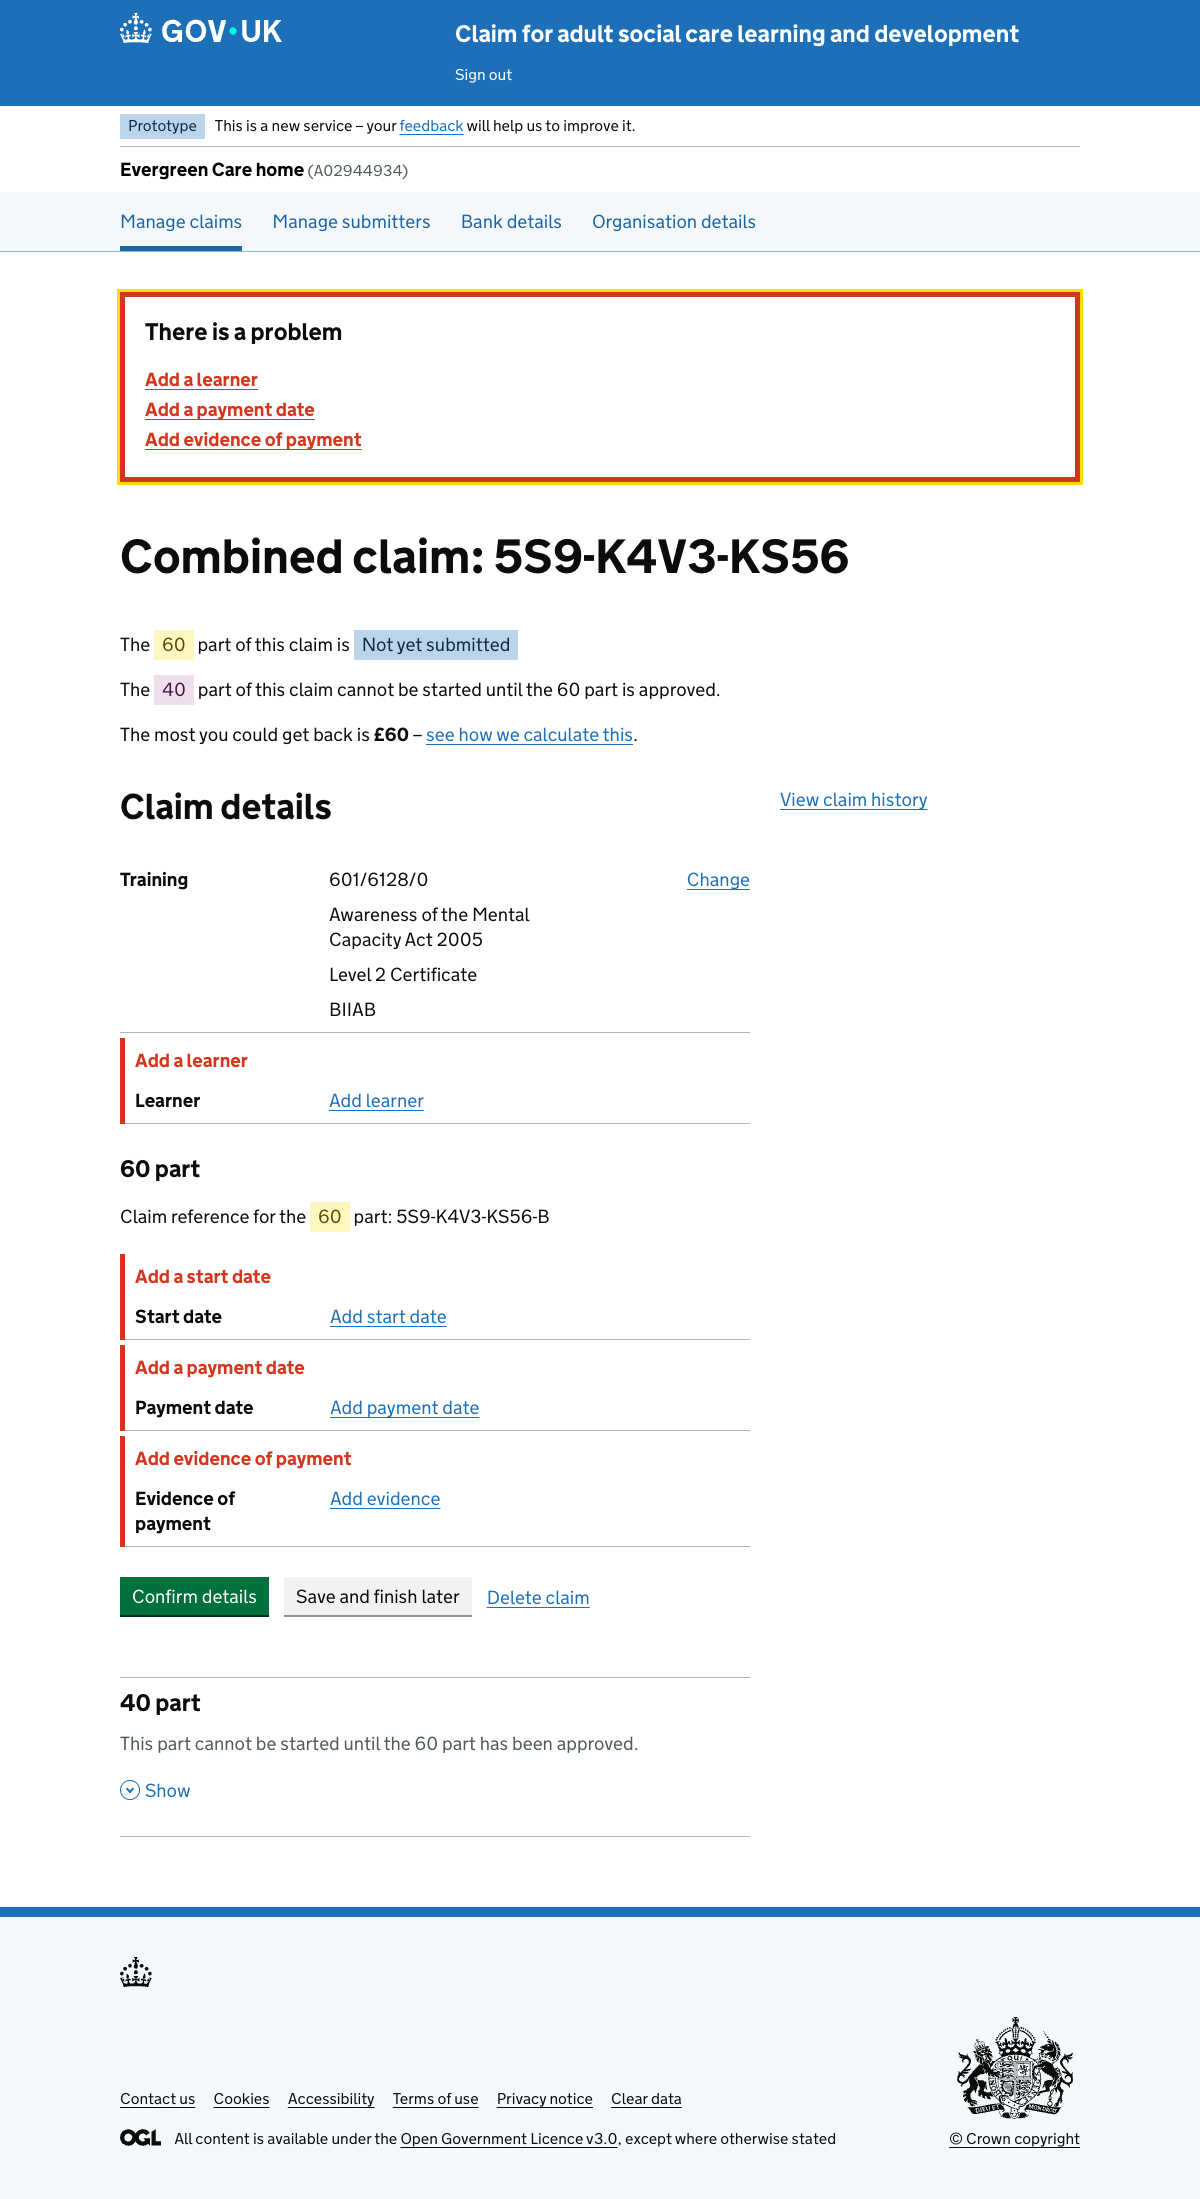
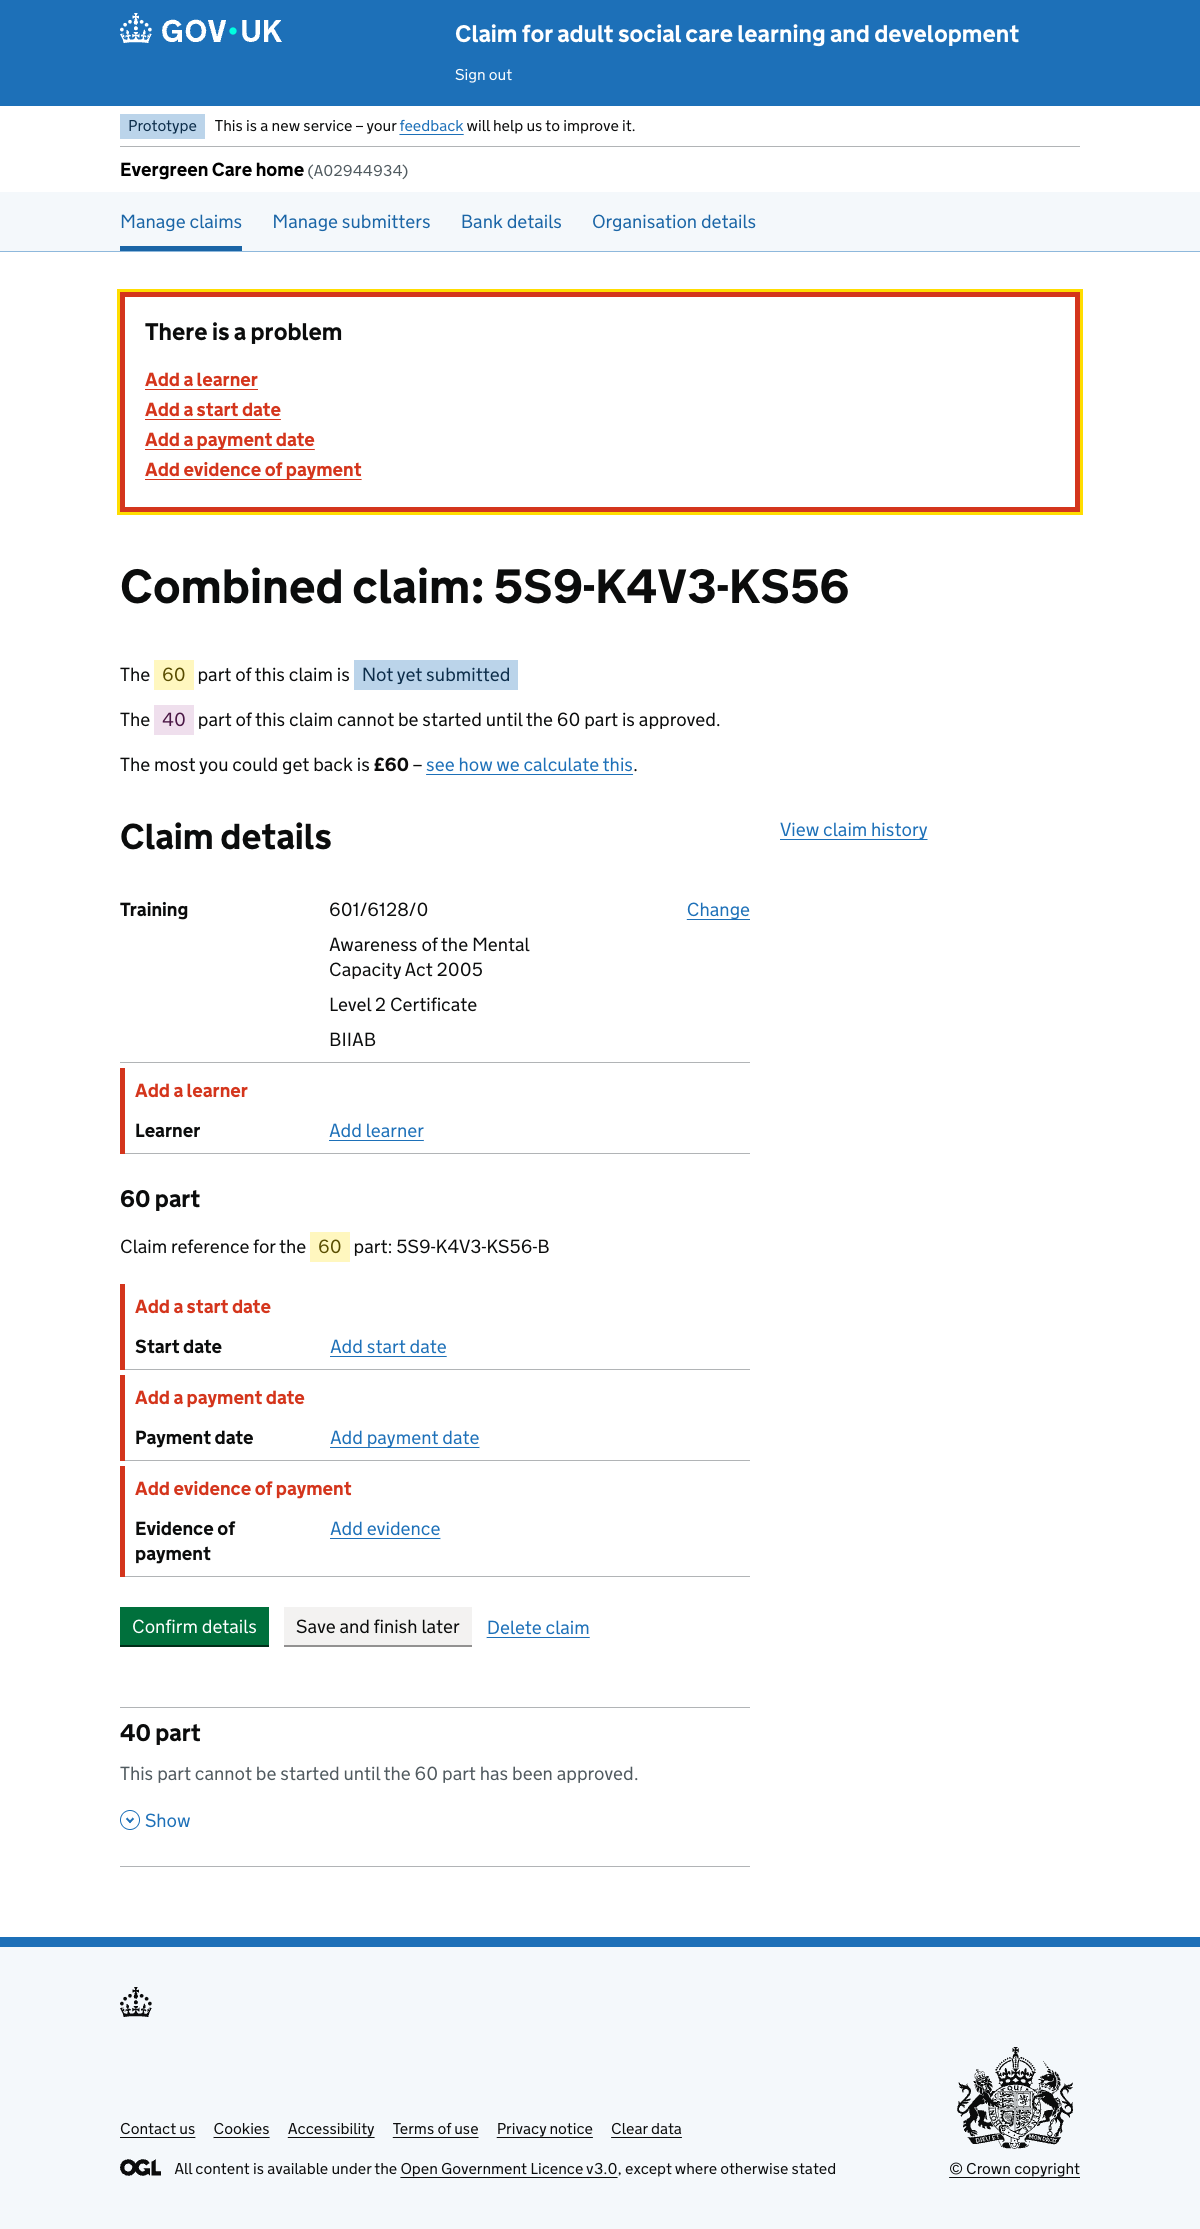
udated screenshots  and routes for error handling

diff --git a/app/views/claims/v22/_backstop/backstop-routes.js b/app/views/claims/v22/_backstop/backstop-routes.js
@@ -1184,16 +1184,28 @@ router.get('/claim', function (req, res) {
             change: true,
             claimValid: false
             }
+        if (type == "100") {
+            req.session.data.submitError.startDate = null
+        }
     } else if (error == "missing2") {
         req.session.data.submitError = {
             learner: "valid",
             startDate: "valid",
-            paymentDate: "missing",
+            paymentDate: "valid",
             evidenceOfPayment: "valid",
             evidenceOfCompletion: "missing",
             completionDate: "missing",
             change: true,
             claimValid: false
+            }
+        for (const claim of req.session.data.claims) {
+                if (claim.claimID == id) {
+                    const submission = getMostRelevantSubmission(claim)
+                    for (const learner of submission.learners) {
+                        learner.completionDate = null
+                        learner.evidenceOfCompletion = null
+                    }
+                }
             }
     } else if (error == "missing3" && paymentPlan == "false") {
         req.session.data.submitError = {
@@ -1216,26 +1228,6 @@ router.get('/claim', function (req, res) {
             completionDate: "missing",
             change: true,
             claimValid: false
-            }
-    } else if (error == "date1") {
-        req.session.data.submitError = {
-            learner: "valid",
-            startDate: "invalid",
-            paymentDate: "valid",
-            evidenceOfPayment: "valid",
-            evidenceOfCompletion: "valid",
-            completionDate: "invalid",
-            change: true,
-            claimValid: false
-            }
-
-            for (const claim of req.session.data.claims) {
-                if (claim.claimID == "GE2-UA5D-4K6C-A") {
-                    const submission = getMostRelevantSubmission(claim)
-                    submission.costDate = "2025-03-31T23:55:44.062Z"
-                    submission.completionDate = "2025-02-25T23:55:44.062Z"
-                    submission.evidenceOfCompletion = "certificate1.pdf"
-                }
             }
     } else if (error == "date2") {
         req.session.data.submitError = {
@@ -1297,6 +1289,31 @@ router.get('/claim', function (req, res) {
                 }
             }
     } else if (error == "noedits") {
+        switch (type) {
+            case "100":
+                if (learnerCount == "multi") {
+                    id = "HZE-PYRI-EN4T-A";
+                } else if (learnerCount == "single") {
+                    id = "RKS-RP75-JB2P-A";
+                    for (const claim of req.session.data.claims) {
+                        if (claim.claimID == id) {
+                            const submission = getMostRelevantSubmission(claim)
+                            submission.learners[0].learnerID = "WS 54 2F 01 E"
+                            submission.learners[0].learnerChanged = null
+                        }
+                    }
+                }
+                break;
+
+            case "60":
+                id = "VIM-5JSV-GQUS-B";
+                break;
+
+            case "40":
+                id = "WVN-NHAU-TTES-C";
+                break;
+        }
+
         req.session.data.submitError = {
             learner: "valid",
             startDate: "valid",
@@ -1306,15 +1323,6 @@ router.get('/claim', function (req, res) {
             completionDate: "valid",
             change: false,
             claimValid: false
-            }
-
-            if (type =="60") {
-                for (const claim of req.session.data.claims) {
-                if (claim.claimID == "VJH-8Y37-EZNM-B") {
-                    const submission = getDraftSubmission(claim)
-                    submission.evidenceOfPayment = ["invoice1.pdf", "receipt1.pdf"]
-                }
-            }
             }
         }
 

diff --git a/app/views/claims/v22/_filters/filters.js b/app/views/claims/v22/_filters/filters.js
@@ -78,15 +78,11 @@ addFilter('errorSummary', function (claim, submitError) {
     } else {
         submission = getMostRelevantSubmission(claim)
     }
-
-    if (submitError.description == "missing") {
-        errorSummaryStr = errorSummaryStr.concat('<li><a href="#description-error">Add a description</a></li>')
-    }
-    if (submitError.claimAmount == "missing") {
-        errorSummaryStr = errorSummaryStr.concat('<li><a href="#claim-amount-error">Add a cost</a></li>')
-    }
     if (submitError.learner == "missing") {
         errorSummaryStr = errorSummaryStr.concat('<li><a href="#learner-error">Add a learner</a></li>')
+    }
+    if (submitError.startDate == "missing") {
+        errorSummaryStr = errorSummaryStr.concat('<li><a href="#start-date-error">Add a start date</a></li>')
     }
     if (submitError.paymentDate == "missing" && claim.isPaymentPlan && claim.status == "approved") {
         errorSummaryStr = errorSummaryStr.concat('<li><a href="#payment-date-error">Add a 40% payment date</a></li>')